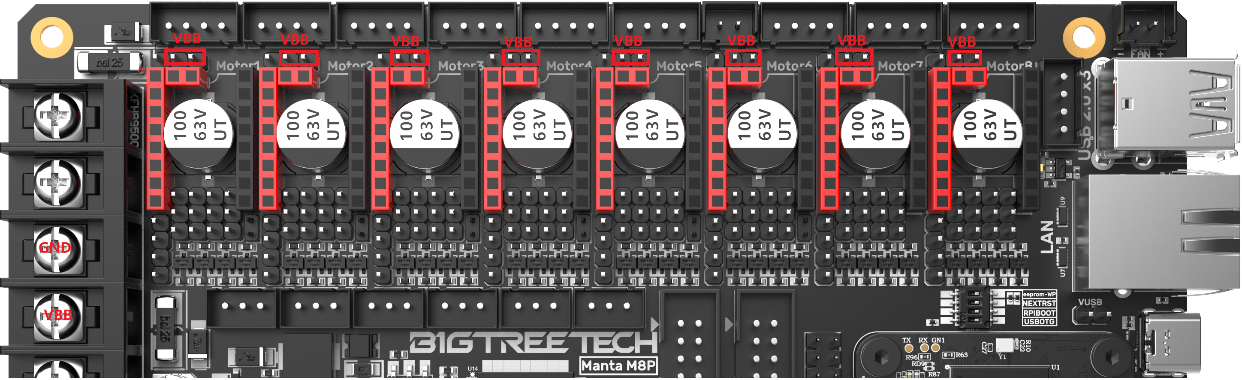
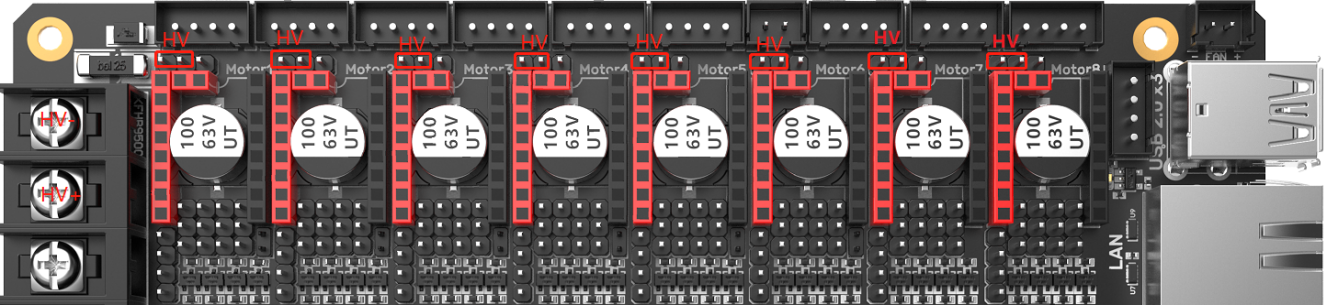
bugfix: fix image issue (#111)

diff --git a/docs/M8P.md b/docs/M8P.md
@@ -133,7 +133,7 @@ As shown in the figure, plug the jumper cap when using the Sensorless Homing fun
 
 <img src=img/M8P/M8P_Sel_PS1.png width="600" />
 
-<img src=img/M8P/M8P_Sel_PS1.png width="600" />
+<img src=img/M8P/M8P_Sel_PS2.png width="600" />
 
 ### **Install the Core Board via BTB Connection**
 
